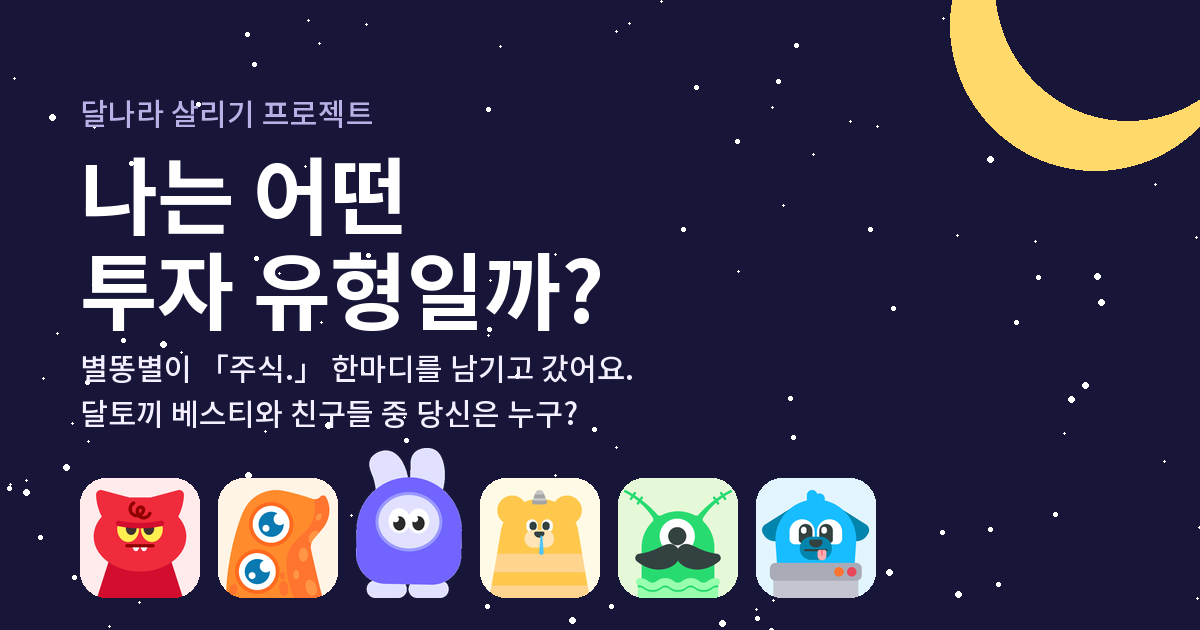
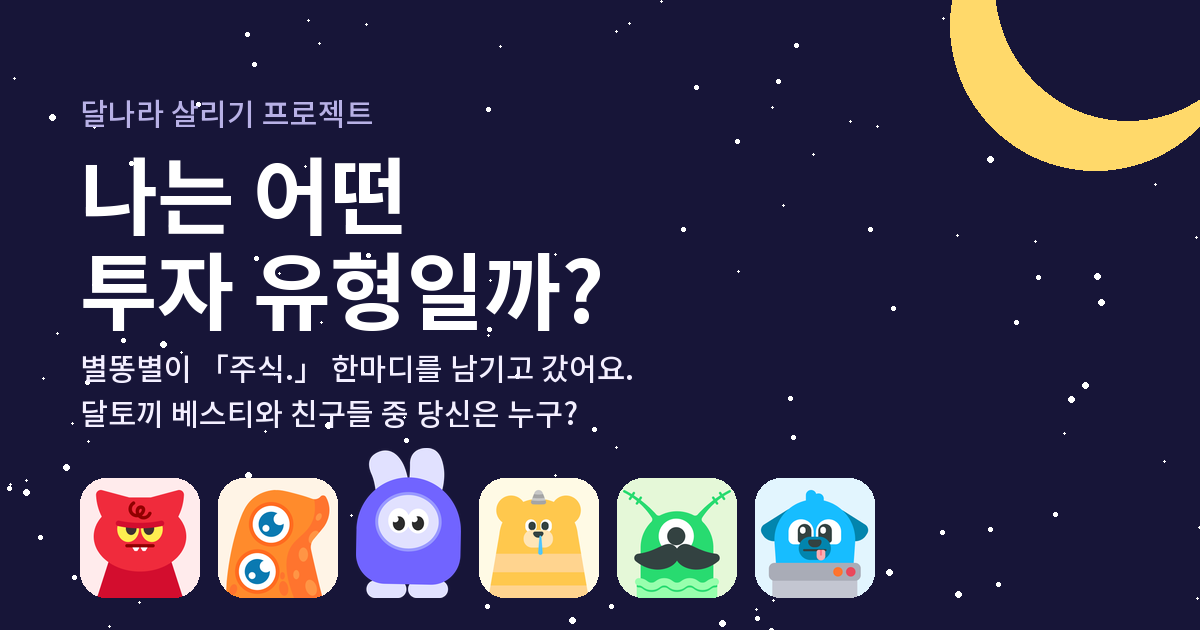
베스티 누끼를 피그마 벡터 렌더로 교체, 말풍선 레이아웃·한국어 줄바꿈 수정

diff --git a/index.html b/index.html
@@ -43,7 +43,7 @@
 }
 *{box-sizing:border-box}
 html{-webkit-tap-highlight-color:transparent}
-body{margin:0;background:var(--bg);color:var(--fg);font-family:var(--body);line-height:1.6;min-height:100%;touch-action:manipulation}
+body{margin:0;background:var(--bg);color:var(--fg);font-family:var(--body);line-height:1.6;min-height:100%;touch-action:manipulation;word-break:keep-all;overflow-wrap:anywhere}
 .wrap{max-width:480px;margin:0 auto;padding-inline:16px;padding-block:16px 56px}
 h1,h2,h3{font-family:var(--display);font-weight:400;line-height:1.2;margin:0;text-wrap:balance;letter-spacing:-.01em}
 p{margin:0}
@@ -104,12 +104,12 @@ button:focus-visible,a:focus-visible{outline:3px solid var(--accent);outline-off
 .dots i::before{content:"";width:18px;height:18px;background:var(--line);clip-path:polygon(50% 0%,61% 35%,98% 35%,68% 57%,79% 91%,50% 70%,21% 91%,32% 57%,2% 35%,39% 35%);transition:background-color .3s ease,transform .3s ease}
 .dots i.on::before{background:var(--moon);transform:scale(1.15)}
 .dots i.now::before{background:var(--accent)}
-.ask{display:grid;grid-template-columns:56px 1fr;gap:12px;align-items:start;margin-top:10px}
-.ask .av{width:56px;height:64px}
+.ask{display:grid;grid-template-columns:88px 1fr;gap:10px;align-items:end;margin-top:14px}
+.ask .av{width:88px;height:112px;filter:drop-shadow(0 6px 10px rgba(0,0,0,.18))}
 .bubble{position:relative;background:var(--surface);border:1px solid var(--line);border-radius:18px 18px 18px 6px;padding:14px 16px}
-.bubble::before{content:"";position:absolute;left:-8px;bottom:14px;width:14px;height:14px;background:var(--surface);border-left:1px solid var(--line);border-bottom:1px solid var(--line);transform:rotate(45deg)}
+.bubble::before{content:"";position:absolute;left:-8px;bottom:26px;width:14px;height:14px;background:var(--surface);border-left:1px solid var(--line);border-bottom:1px solid var(--line);transform:rotate(45deg)}
 .bubble .scene{color:var(--muted);font-size:12.5px;font-weight:700;letter-spacing:.04em;margin-bottom:4px}
-.bubble h2{font-size:24px}
+.bubble h2{font-size:23px;line-height:1.3}
 .opts{display:grid;gap:10px;margin-top:18px}
 .opt{display:flex;gap:12px;align-items:center;text-align:left;width:100%;padding:14px 14px 14px 12px;border-radius:18px;border:2px solid var(--line);background:var(--surface);color:var(--fg);font-size:15.5px;line-height:1.45;transition:transform .12s ease,border-color .12s ease,background-color .12s ease}
 .opt .key{flex:0 0 32px;width:32px;height:32px;border-radius:50%;display:grid;place-items:center;font-family:var(--display);font-size:15px;color:var(--accent);background:color-mix(in srgb,var(--accent) 12%,var(--surface));transition:background-color .12s ease,color .12s ease}
@@ -250,7 +250,7 @@ button:focus-visible,a:focus-visible{outline:3px solid var(--accent);outline-off
 
 <script>
 /* ---------- character images (Figma lottie/LO-NA-01-07 profile set + 베스티) ---------- */
-var SIZE={bestie:[303,430],cred:[280,280],randy:[280,280],rob:[280,280],ton:[280,280],rai:[280,280]};
+var SIZE={bestie:[805,1147],cred:[280,280],randy:[280,280],rob:[280,280],ton:[280,280],rai:[280,280]};
 function src(key){return 'assets/av-'+key+'.png'}
 function av(key){
   var cls='av '+(key==='bestie'?'bestie':'sq');
@@ -336,7 +336,7 @@ function renderCast(){
   $('cast').innerHTML=
     '<img class="f i1" src="'+src('cred')+'" width="280" height="280" alt="">'+
     '<img class="f i2" src="'+src('randy')+'" width="280" height="280" alt="">'+
-    '<img class="bestie" src="'+src('bestie')+'" width="303" height="430" alt="" fetchpriority="high">'+
+    '<img class="bestie" src="'+src('bestie')+'" width="805" height="1147" alt="" fetchpriority="high">'+
     '<img class="f i3" src="'+src('rob')+'" width="280" height="280" alt="">'+
     '<img class="f i4" src="'+src('ton')+'" width="280" height="280" alt="">'+
     '<img class="f i5" src="'+src('rai')+'" width="280" height="280" alt="">';
